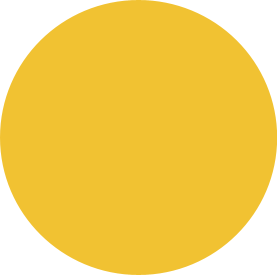
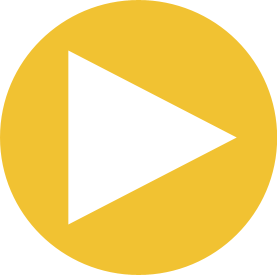
feat: Introduce `Character`, `BackgroundImage`, and `DynamicBackground` classes, integrate them into the application's initial setup and UI interactions, and add associated image resources and build configurations.

Changed region(s): [[0.231, 0.1745, 0.8664, 0.8145]]

diff --git a/include/Character.hpp b/include/Character.hpp
@@ -4,58 +4,85 @@
 #include <string>
 
 #include "Util/GameObject.hpp"
+#include "Util/Input.hpp"
+#include "Util/Keycode.hpp"
 
-class Character : public Util::GameObject
-{
+class Character : public Util::GameObject {
 public:
-    explicit Character(const std::string &ImagePath);
+  explicit Character(const std::string &ImagePath);
 
-    Character(const Character &) = delete;
+  Character(const Character &) = delete;
 
-    Character(Character &&) = delete;
+  Character(Character &&) = delete;
 
-    Character &operator=(const Character &) = delete;
+  Character &operator=(const Character &) = delete;
 
-    Character &operator=(Character &&) = delete;
+  Character &operator=(Character &&) = delete;
 
-    [[nodiscard]] const std::string &GetImagePath() const { return m_ImagePath; }
+  [[nodiscard]] const std::string &GetImagePath() const { return m_ImagePath; }
 
-    [[nodiscard]] const glm::vec2 &GetPosition() const { return m_Transform.translation; }
+  [[nodiscard]] const glm::vec2 &GetPosition() const {
+    return m_Transform.translation;
+  }
 
-    [[nodiscard]] bool GetVisibility() const { return m_Visible; }
+  [[nodiscard]] bool GetVisibility() const { return m_Visible; }
 
-    void SetImage(const std::string &ImagePath);
+  void SetImage(const std::string &ImagePath);
 
-    void SetPosition(const glm::vec2 &Position) { m_Transform.translation = Position; }
+  void SetPosition(const glm::vec2 &Position) {
+    m_Transform.translation = Position;
+  }
 
-    // TODO: Implement the collision detection
-    [[nodiscard]] bool IfCollides(const std::shared_ptr<Character> &other) const
+  // TODO: Implement the collision detection
+  [[nodiscard]] bool IfCollides(const std::shared_ptr<Character> &other) const {
+    // (void) other;
+    auto thisPos = GetPosition();
+    auto otherPos = other->GetPosition();
+    // Haven't updated to the size of the character
+    auto thisWidth = GetSize().x;
+    auto thisHeight = GetSize().y;
+    auto otherWidth = other->GetSize().x;
+    auto otherHeight = other->GetSize().y;
+    if (abs(thisPos.x - otherPos.x) < (thisWidth / 2 + otherWidth / 2) &&
+        abs(thisPos.y - otherPos.y) < (thisHeight / 2 + otherHeight / 2)) {
+      return true;
+    }
+    return false;
+  }
+  [[nodiscard]] const glm::vec2 GetSize() const {
+    auto size = this->GetScaledSize();
+    return size;
+  }
+
+  [[nodiscard]] bool IsHovering(const glm::vec2 &mousePos) const {
+    auto thisPos = GetPosition();
+    auto thisSize = GetSize();
+    return (mousePos.x >= thisPos.x - thisSize.x / 2 &&
+            mousePos.x <= thisPos.x + thisSize.x / 2 &&
+            mousePos.y >= thisPos.y - thisSize.y / 2 &&
+            mousePos.y <= thisPos.y + thisSize.y / 2);
+  }
+
+  [[nodiscard]] bool IfClicked(const glm::vec2 &mousePos) const {
+    return IsHovering(mousePos) &&
+           Util::Input::IsKeyDown(Util::Keycode::MOUSE_LB);
+  }
+
+    void UpdateHoverScale(const glm::vec2 &mousePos, float scaleAmount = 1.2f)
     {
-        // (void) other;
-        auto thisPos = GetPosition();
-        auto otherPos = other->GetPosition();
-        // Haven't updated to the size of the character
-        auto thisWidth = GetSize().x;
-        auto thisHeight = GetSize().y;
-        auto otherWidth = other->GetSize().x;
-        auto otherHeight = other->GetSize().y;
-        if (abs(thisPos.x - otherPos.x) < (thisWidth / 2 + otherWidth / 2) && abs(thisPos.y - otherPos.y) < (thisHeight / 2 + otherHeight / 2))
-        {
-            return true;
+        if (IsHovering(mousePos)) {
+            m_Transform.scale = {scaleAmount, scaleAmount};
+        } else {
+            m_Transform.scale = {1.0f, 1.0f};
         }
-        return false;
     }
-    [[nodiscard]] const glm::vec2 GetSize() const
-    {
-        auto size = this->GetScaledSize();
-        return size;
-    }
-    // TODO: Add and implement more methods and properties as needed to finish Giraffe Adventure.
+  // TODO: Add and implement more methods and properties as needed to finish
+  // Giraffe Adventure.
 
 private:
-    void ResetPosition() { m_Transform.translation = {0, 0}; }
+  void ResetPosition() { m_Transform.translation = {0, 0}; }
 
-    std::string m_ImagePath;
+  std::string m_ImagePath;
 };
 
 #endif // CHARACTER_HPP

diff --git a/src/AppUpdate.cpp b/src/AppUpdate.cpp
@@ -4,15 +4,36 @@
 #include "Util/Keycode.hpp"
 
 void App::Update() {
-    
-    //TODO: do your things here and delete this line <3
-    m_Root.Update();
-    /*
-     * Do not touch the code below as they serve the purpose for
-     * closing the window.
-     */
-    if (Util::Input::IsKeyUp(Util::Keycode::ESCAPE) ||
-        Util::Input::IfExit()) {
-        m_CurrentState = State::END;
+
+  // Play button interaction logic
+  if (m_CurrentState == State::UPDATE) {
+    auto mousePos = Util::Input::GetCursorPosition();
+
+    m_playbutton->UpdateHoverScale(mousePos);
+    if (m_playbutton->IfClicked(mousePos)) {
+      m_playbutton->SetVisible(false);
+      m_bird->SetVisible(true);
     }
+
+    m_settingbutton->UpdateHoverScale(mousePos);
+    if (m_settingbutton->IfClicked(mousePos)) {
+      m_settingbutton->SetVisible(false);
+      m_bird->SetVisible(true);
+    }
+
+    m_exitbutton->UpdateHoverScale(mousePos);
+    if (m_exitbutton->IfClicked(mousePos)) {
+      m_exitbutton->SetVisible(false);
+      m_bird->SetVisible(true);
+    }
+  }
+
+  m_Root.Update();
+  /*
+   * Do not touch the code below as they serve the purpose for
+   * closing the window.
+   */
+  if (Util::Input::IsKeyUp(Util::Keycode::ESCAPE) || Util::Input::IfExit()) {
+    m_CurrentState = State::END;
+  }
 }

diff --git a/src/AppStart.cpp b/src/AppStart.cpp
@@ -10,10 +10,24 @@ void App::Start() {
   m_background = std::make_shared<BackgroundImage>();
   m_BGM = std::make_shared<BackgroundMusic>();
   m_BGM->Play_BGM();
+  m_playbutton = std::make_shared<Character>(RESOURCE_DIR "/temp/Y.png");
+  m_playbutton->SetZIndex(50); // Ensure it renders on top of everything
+  m_playbutton->SetVisible(true);
+  m_exitbutton = std::make_shared<Character>(RESOURCE_DIR "/temp/B.png");
+  m_exitbutton->SetZIndex(50); // Ensure it renders on top of everything
+  m_exitbutton->SetPosition({-1000, -550});
+  m_exitbutton->SetVisible(true);
+  m_settingbutton = std::make_shared<Character>(RESOURCE_DIR "/temp/B.png");
+  m_settingbutton->SetZIndex(50); // Ensure it renders on top of everything
+  m_settingbutton->SetPosition({1000, -550});
+  m_settingbutton->SetVisible(true);
 
   m_Root.AddChild(m_background);
   m_Root.AddChild(m_bird);
+  m_Root.AddChild(m_exitbutton);
+  m_Root.AddChild(m_settingbutton);
   m_Root.AddChild(m_BGM);
+  m_Root.AddChild(m_playbutton);
 
   m_CurrentState = State::UPDATE;
 }

diff --git a/include/BackgroundImage.hpp b/include/BackgroundImage.hpp
@@ -5,6 +5,7 @@
 #include "Util/GameObject.hpp"
 #include "Util/Image.hpp"
 #include "config.hpp"
+#include <string>
 
 class BackgroundImage : public Util::GameObject {
 
@@ -19,17 +20,14 @@ public:
     m_Transform.scale = {scale_x, scale_y};
   }
 
-  void NextPhase(const int phase) {
+  void SetImage(const std::string &path) {
     auto temp = std::dynamic_pointer_cast<Util::Image>(m_Drawable);
-    temp->SetImage(ImagePath(phase));
+    temp->SetImage(path);
   }
 
 private:
-  inline std::string ImagePath(const int phase) {
-    // return RESOURCE_DIR"/Image/Background/phase" + std::to_string(phase) +
-    // ".png";
-    return RESOURCE_DIR "/Image/backgrounds/SPLASHES_SHEET_1.png";
-  }
+  std::string m_ImagePath =
+      RESOURCE_DIR "/Image/backgrounds/SPLASHES_SHEET_1.png";
 };
 
 #endif // BACKGROUND_IMAGE_HPP

diff --git a/include/App.hpp b/include/App.hpp
@@ -31,6 +31,9 @@ private:
   // Put things you need here
   State m_CurrentState = State::START;
   std::shared_ptr<Character> m_bird;
+  std::shared_ptr<Character> m_playbutton;
+  std::shared_ptr<Character> m_exitbutton;
+  std::shared_ptr<Character> m_settingbutton;
   std::shared_ptr<BackgroundImage> m_background;
   std::shared_ptr<BackgroundMusic> m_BGM;
   std::shared_ptr<SoundEffect> m_SFX;

diff --git a/include/DynamicBackground.hpp b/include/DynamicBackground.hpp
@@ -1,0 +1,11 @@
+#include "BackgroundImage.hpp"
+
+class DynamicBackground : public BackgroundImage {
+public:
+  DynamicBackground();
+  void Update(float dt) override;
+  void SetSpeed(float speed) { m_Speed = speed; }
+
+private:
+  float m_Speed;
+};

diff --git a/src/DynamicBackground.cpp b/src/DynamicBackground.cpp
@@ -1,0 +1,7 @@
+#include "DynamicBackground.hpp"
+#include "BackgroundImage.hpp"
+
+DynamicBackground::DynamicBackground()
+    : m_Background(RESOURCE_DIR "temp/test_bg.png") {}
+
+void DynamicBackground::Update(float dt) { m_Background->Update(dt); }
